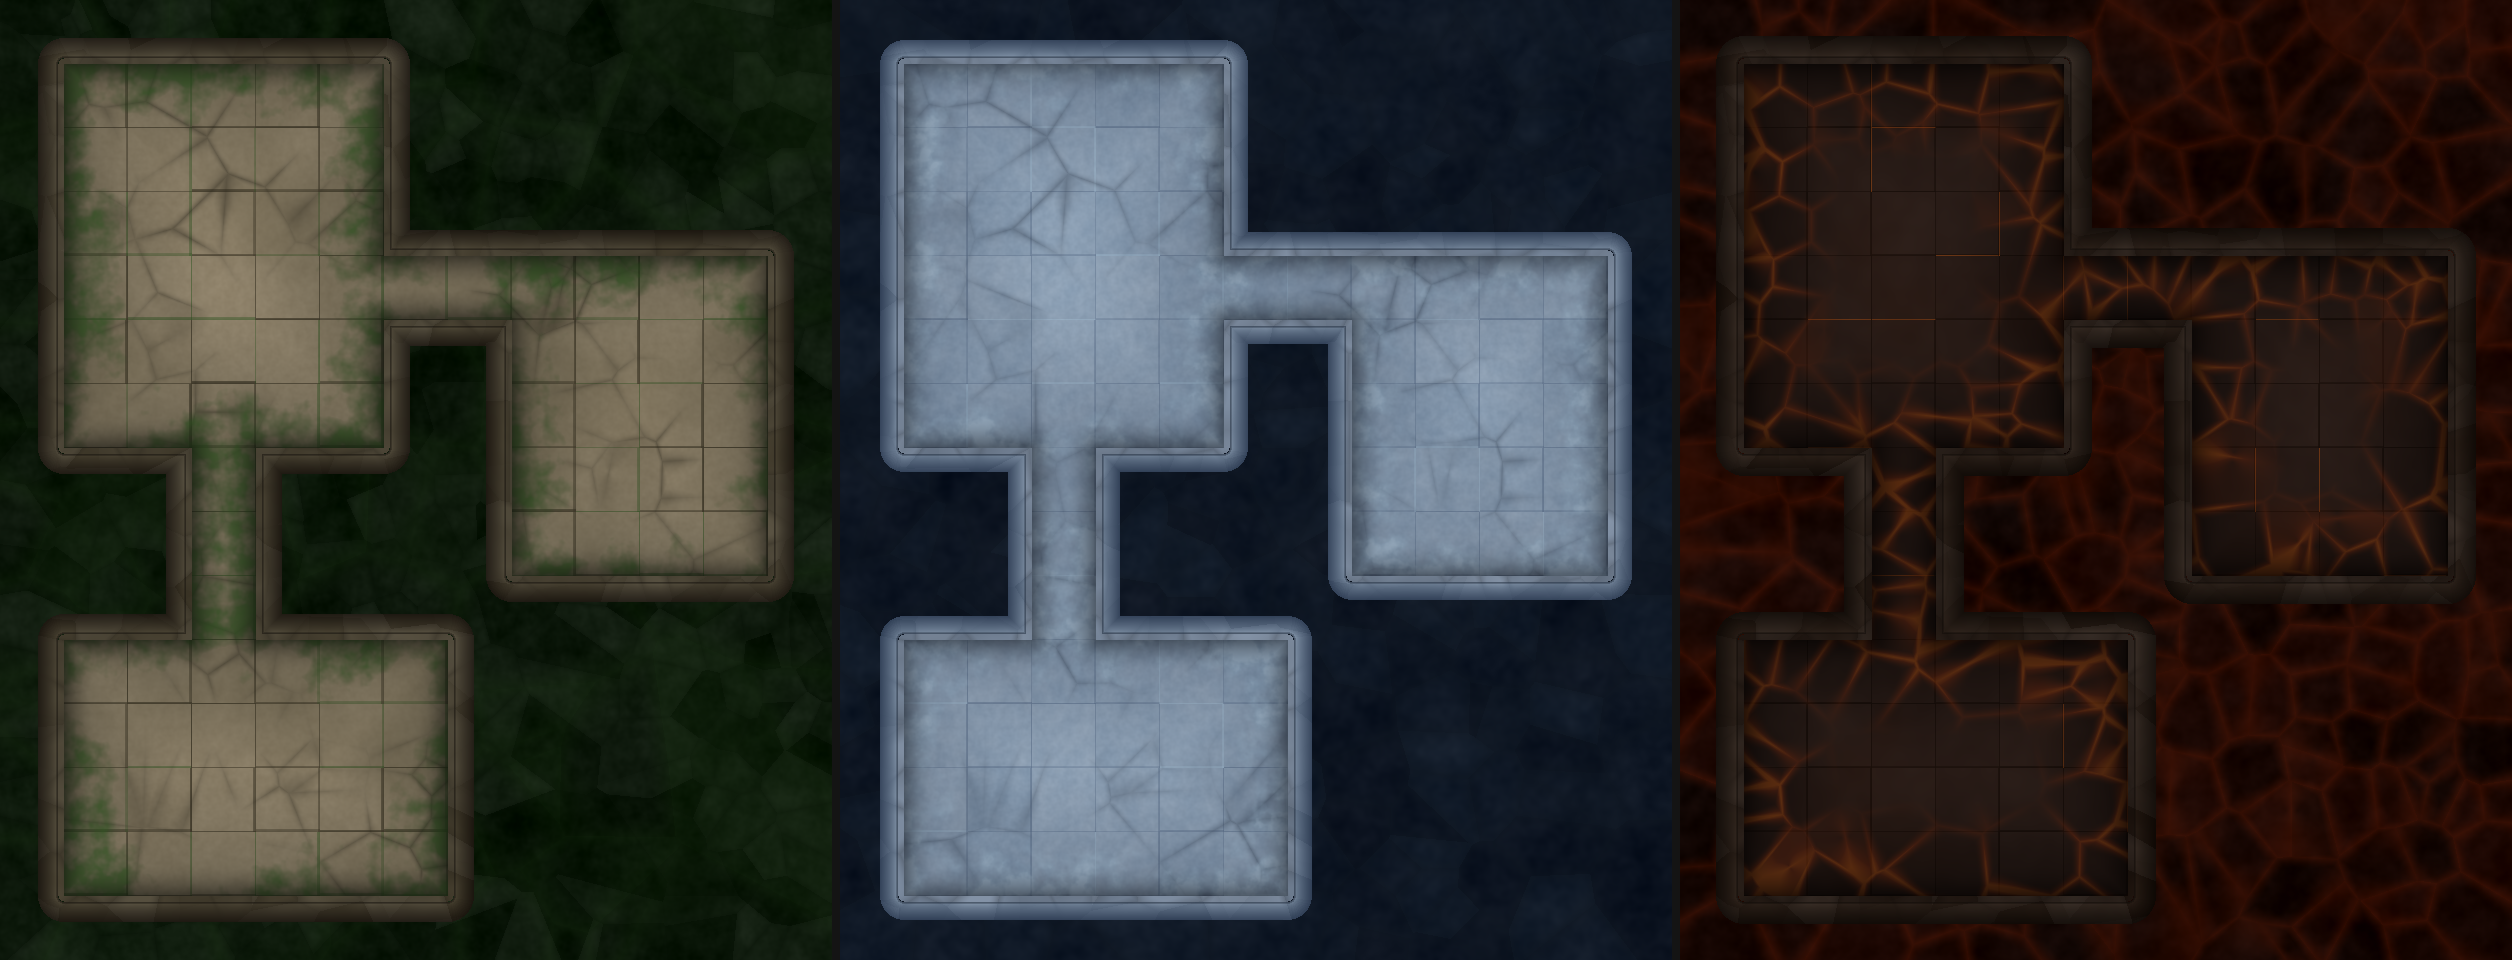
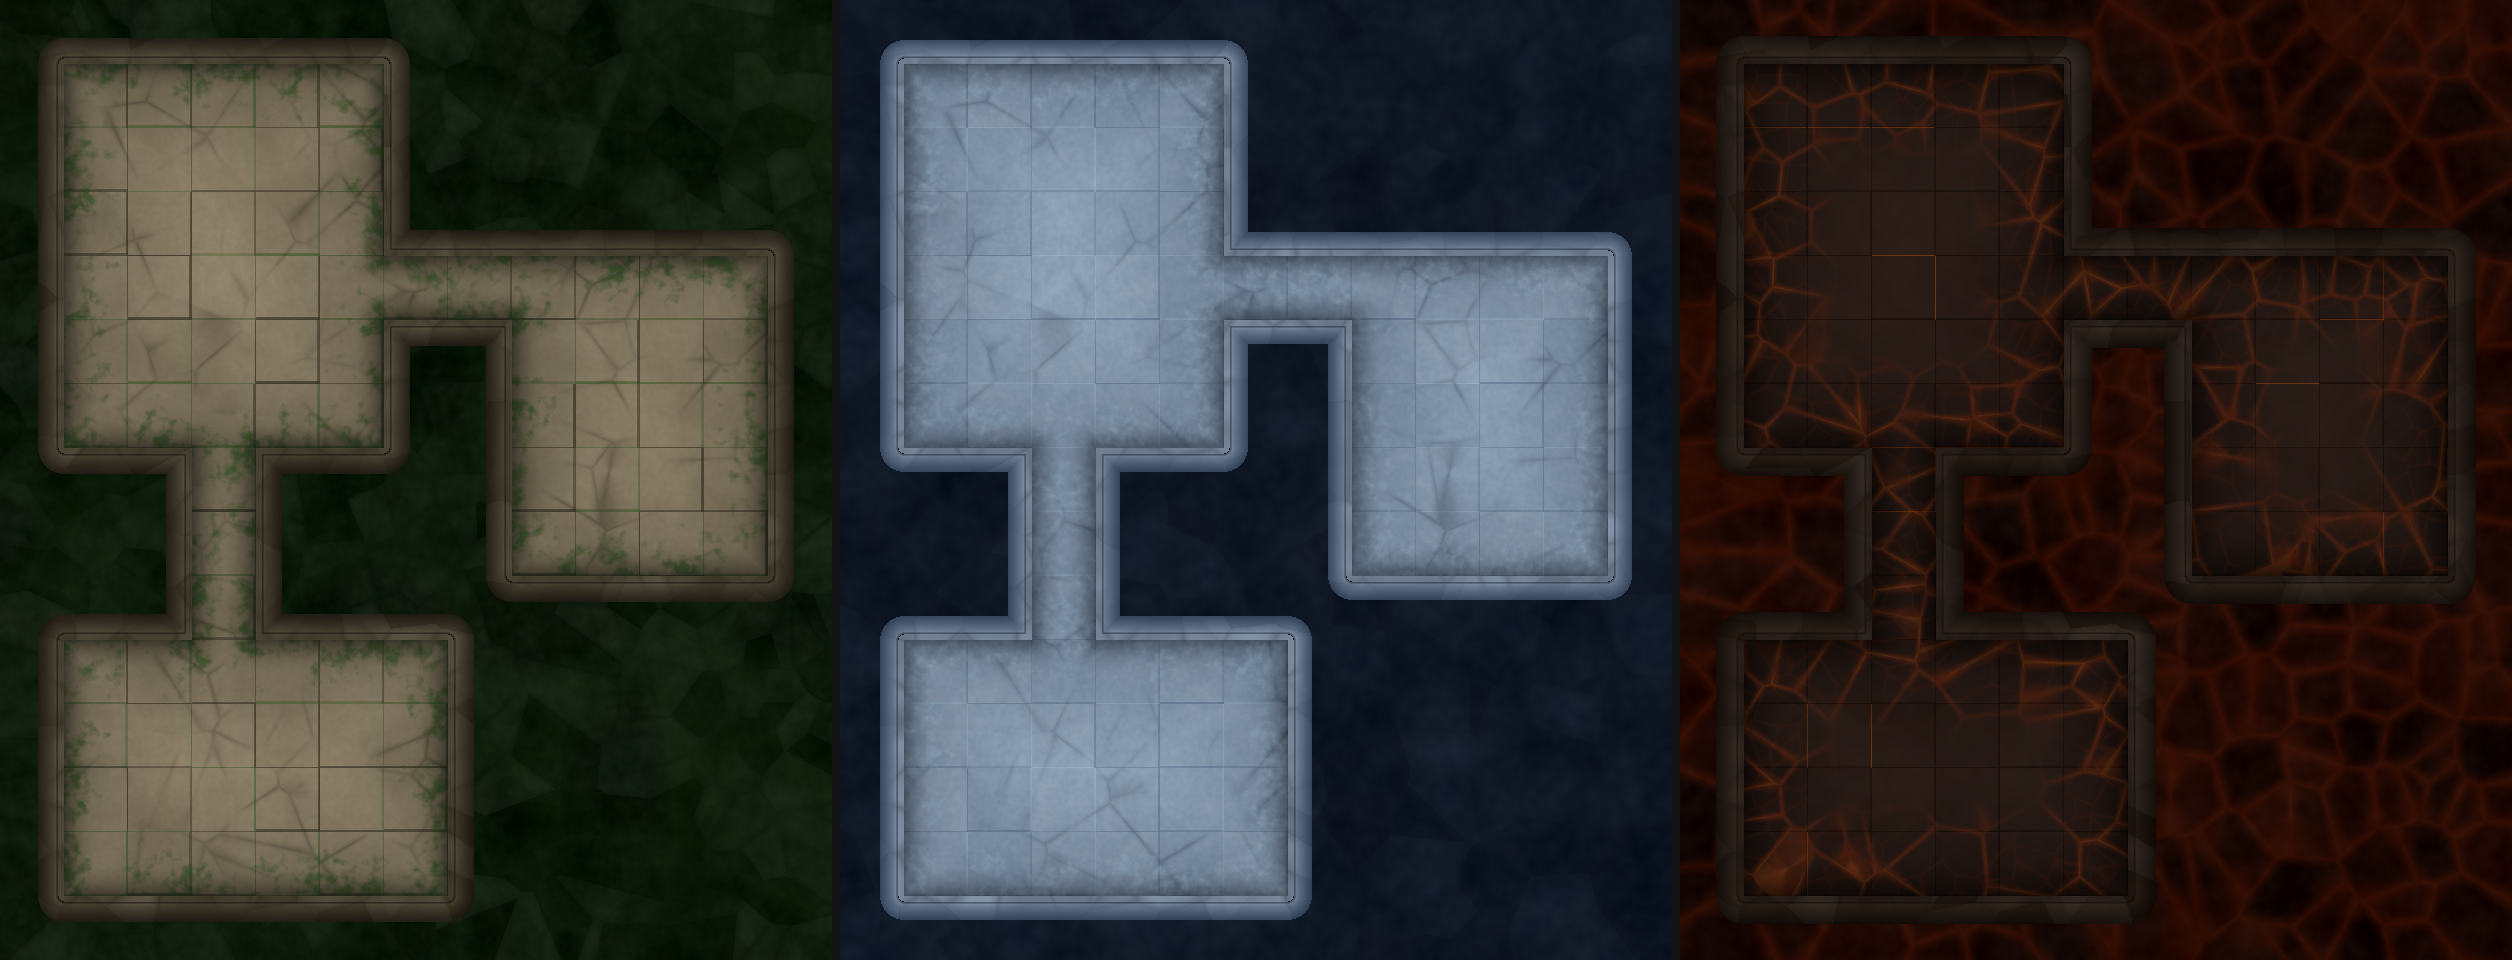
Enforce finer detail scales on successive layers
Each layer now uses progressively finer noise/Voronoi scales:
- Vine tendrils: noise scale 4.0/8.0 (was 1.5/4.0), sharper threshold
- Frost creep: scale 6.0/12.0 (was 2.5/6.0), crisper crystalline edges
- Lava seep: Voronoi density 4.0+10.0 (was 1.8), two crack scales
  producing fine glowing fissures instead of huge cells
- Cracks: density 3.0 with *7.0 edge sharpening (was 1.5/*5.0)
- Stains: added fine detail modulation noise

Follows rule: each successive layer has reduced feature scale.

diff --git a/tools/texgen/preview.py b/tools/texgen/preview.py
@@ -393,78 +393,95 @@ def step_grout_cracked(ctx, width_range=(1, 2), glow_chance=0.15):
 # ===================================================================
 
 def step_vine_tendrils(ctx, reach=1.8, density=0.45):
-    """Organic vine tendrils creeping from exterior into rooms."""
-    n1 = noise(PX_H, PX_W, scale=1.5, octaves=4, seed=800)
-    n2 = noise(PX_H, PX_W, scale=4.0, octaves=3, seed=801)
-    n3 = noise(PX_H, PX_W, scale=0.5, octaves=2, seed=802)
+    """Organic vine tendrils creeping from exterior into rooms.
+    Uses fine-scale noise for thin tendril shapes, not fat blobs."""
+    # Fine detail for thin tendril shapes
+    n_shape = noise(PX_H, PX_W, scale=4.0, octaves=4, seed=800)
+    n_detail = noise(PX_H, PX_W, scale=8.0, octaves=3, seed=801)
+    # Medium for tendril routing/clustering
+    n_route = noise(PX_H, PX_W, scale=1.5, octaves=2, seed=802)
 
     prox = np.clip(1.0 - ctx.inner_dist / (TILE * reach), 0, 1)
-    tendril = prox * (0.3 + 0.7 * n1) * (0.5 + 0.5 * n2) * (0.2 + 0.8 * np.clip(n3 * 1.5, 0, 1))
-    vine_mask = np.clip((tendril - 0.25) * 4.0, 0, 1)
+    # Thin tendrils: high-freq noise shaped by proximity and routing
+    tendril = prox * (0.2 + 0.8 * n_shape) * (0.5 + 0.5 * n_detail)
+    tendril *= (0.3 + 0.7 * np.clip(n_route * 1.5, 0, 1))
+    # Sharper threshold for thinner features
+    vine_mask = np.clip((tendril - 0.3) * 5.0, 0, 1)
     vine_mask[ctx.void_mask] = 0
 
     colors = [np.array(mc, dtype=np.float64) for mc in ctx.theme['moss_colors']]
     if not colors: return
-    ctx.blend(colors[0], vine_mask * 0.6, ctx.floor_mask)
+    ctx.blend(colors[0], vine_mask * 0.55, ctx.floor_mask)
     if len(colors) > 1:
-        highlight = np.clip((tendril - 0.4) * 5.0, 0, 1) * vine_mask
-        ctx.blend(colors[1], highlight * 0.4, ctx.floor_mask)
+        # Fine highlights only on densest vine areas
+        highlight = np.clip((tendril - 0.45) * 8.0, 0, 1) * vine_mask
+        ctx.blend(colors[1], highlight * 0.35, ctx.floor_mask)
     if len(colors) > 2:
-        edge_shadow = vine_mask * np.clip(1.0 - tendril * 2, 0, 1)
-        ctx.blend(colors[2] * 0.5, edge_shadow * 0.3, ctx.floor_mask)
+        edge_shadow = vine_mask * np.clip(1.0 - tendril * 2.5, 0, 1)
+        ctx.blend(colors[2] * 0.5, edge_shadow * 0.25, ctx.floor_mask)
 
 
 def step_frost_creep(ctx, reach=1.2, density=0.3):
-    """Crystalline frost spreading from cold walls. Feathery, branching."""
-    # Higher frequency noise for crystalline/feathery look
-    n1 = noise(PX_H, PX_W, scale=2.5, octaves=4, seed=810)
-    n2 = noise(PX_H, PX_W, scale=6.0, octaves=3, seed=811)
-    n3 = noise(PX_H, PX_W, scale=1.0, octaves=2, seed=812)
+    """Crystalline frost spreading from cold walls. Fine feathery detail."""
+    # Very high frequency for crystalline/feathery branching
+    n_crystal = noise(PX_H, PX_W, scale=6.0, octaves=4, seed=810)
+    n_fine = noise(PX_H, PX_W, scale=12.0, octaves=3, seed=811)
+    # Medium for which areas get frost
+    n_zone = noise(PX_H, PX_W, scale=1.5, octaves=2, seed=812)
 
     prox = np.clip(1.0 - ctx.inner_dist / (TILE * reach), 0, 1)
-    # Crystalline: sharper threshold, more on/off
-    crystal = prox * n1 * (0.6 + 0.4 * n2)
-    crystal *= (0.3 + 0.7 * np.clip(n3 * 1.5, 0, 1))
-    frost = np.clip((crystal - 0.15) * 6.0, 0, 1)  # sharper edges
+    crystal = prox * n_crystal * (0.5 + 0.5 * n_fine)
+    crystal *= (0.3 + 0.7 * np.clip(n_zone * 1.5, 0, 1))
+    # Very sharp threshold for crisp frost edges
+    frost = np.clip((crystal - 0.18) * 8.0, 0, 1)
     frost[ctx.void_mask] = 0
 
     colors = [np.array(mc, dtype=np.float64) for mc in ctx.theme['moss_colors']]
     if not colors: return
-    # Frost is lighter, not darker — additive feel
-    ctx.blend(colors[0], frost * 0.35, ctx.floor_mask)
+    ctx.blend(colors[0], frost * 0.3, ctx.floor_mask)
     if len(colors) > 1:
-        # Bright rime highlights on thickest frost
-        rime = np.clip((crystal - 0.3) * 8.0, 0, 1) * frost
-        ctx.blend(colors[1], rime * 0.3, ctx.floor_mask)
+        rime = np.clip((crystal - 0.35) * 10.0, 0, 1) * frost
+        ctx.blend(colors[1], rime * 0.25, ctx.floor_mask)
 
 
-def step_lava_seep(ctx, reach=1.5, intensity=0.6, crack_density=1.8):
-    """Lava seeping through cracks near walls. Glowing cores, dark edges."""
-    # Use Voronoi cracks for lava channels
+def step_lava_seep(ctx, reach=1.5, intensity=0.6, crack_density=4.0):
+    """Lava seeping through fine cracks near walls. Thin glowing lines."""
+    # High-density Voronoi for fine crack network (not huge cells)
     _, crack_edges = voronoi(PX_H, PX_W, density=crack_density, seed=820)
-    cracks = np.clip(1.0 - crack_edges * 4.0, 0, 1) ** 2
+    cracks = np.clip(1.0 - crack_edges * 6.0, 0, 1) ** 2.5  # thinner lines
+
+    # Secondary even finer cracks
+    _, crack_edges2 = voronoi(PX_H, PX_W, density=crack_density * 2.5, seed=822)
+    cracks2 = np.clip(1.0 - crack_edges2 * 8.0, 0, 1) ** 3
 
     prox = np.clip(1.0 - ctx.inner_dist / (TILE * reach), 0, 1)
-    n_variation = noise(PX_H, PX_W, scale=0.6, octaves=3, seed=821)
+    n_variation = noise(PX_H, PX_W, scale=1.5, octaves=3, seed=821)
 
-    # Lava flows in cracks near walls
+    # Primary lava cracks near walls
     lava = cracks * prox * (0.4 + 0.6 * n_variation)
-    lava_mask = np.clip(lava * 3.0, 0, 1)
+    lava_mask = np.clip(lava * 4.0, 0, 1)
+    # Secondary fine cracks (subtler)
+    lava2 = cracks2 * prox * 0.5
+    lava_mask2 = np.clip(lava2 * 3.0, 0, 1)
     lava_mask[ctx.void_mask] = 0
+    lava_mask2[ctx.void_mask] = 0
 
     colors = [np.array(mc, dtype=np.float64) for mc in ctx.theme['moss_colors']]
     if not colors: return
 
-    # Dark scorch around lava
-    scorch = np.clip(prox * 1.5, 0, 1) * 0.2
+    # Subtle scorch around lava areas
+    scorch = np.clip(prox * 1.2, 0, 1) * 0.15
     ctx.darken(scorch, ctx.floor_mask)
 
-    # Hot lava glow (bright core)
-    ctx.blend(colors[0], lava_mask * intensity * 0.5, ctx.floor_mask)
-    # Bright highlights in the crack centers
+    # Fine secondary cracks (dim glow)
+    if len(colors) > 2:
+        ctx.blend(colors[2], lava_mask2 * intensity * 0.3, ctx.floor_mask)
+    # Primary lava glow
+    ctx.blend(colors[0], lava_mask * intensity * 0.45, ctx.floor_mask)
+    # Bright core highlights (only in strongest cracks)
     if len(colors) > 1:
-        bright = np.clip((lava - 0.3) * 5.0, 0, 1)
-        ctx.blend(colors[1], bright * intensity * 0.4, ctx.floor_mask)
+        bright = np.clip((lava - 0.35) * 6.0, 0, 1)
+        ctx.blend(colors[1], bright * intensity * 0.35, ctx.floor_mask)
 
 
 # ===================================================================
@@ -472,29 +489,32 @@ def step_lava_seep(ctx, reach=1.5, intensity=0.6, crack_density=1.8):
 # ===================================================================
 
 def step_stains_organic(ctx, coverage=0.3):
-    """Warm dirt/water stains."""
+    """Warm dirt/water stains — medium scale, below tiles."""
     stain = np.array(ctx.theme['stain'], dtype=np.float64)
-    n = noise(PX_H, PX_W, scale=0.4, octaves=4, seed=300)
-    alpha = np.clip(n * 1.8 - 0.6, 0, 1) ** 1.2 * coverage
+    n = noise(PX_H, PX_W, scale=0.8, octaves=3, seed=300)
+    detail = noise(PX_H, PX_W, scale=3.0, octaves=2, seed=301)
+    alpha = np.clip(n * 1.8 - 0.6, 0, 1) ** 1.2 * (0.7 + 0.3 * detail) * coverage
     ctx.blend(stain, alpha, ctx.floor_mask)
 
 
 def step_stains_soot(ctx, coverage=0.25):
-    """Dark scorch/soot stains — volcano theme."""
+    """Dark scorch/soot stains — medium-fine scale."""
     stain = np.array(ctx.theme['stain'], dtype=np.float64)
-    n = noise(PX_H, PX_W, scale=0.5, octaves=3, seed=305)
-    alpha = np.clip(n * 2.0 - 0.7, 0, 1) ** 1.5 * coverage
+    n = noise(PX_H, PX_W, scale=1.2, octaves=3, seed=305)
+    detail = noise(PX_H, PX_W, scale=4.0, octaves=2, seed=306)
+    alpha = np.clip(n * 2.0 - 0.7, 0, 1) ** 1.5 * (0.6 + 0.4 * detail) * coverage
     ctx.blend(stain, alpha, ctx.floor_mask)
 
 
-def step_cracks_fine(ctx, density=1.5):
-    """Fine crack network."""
+def step_cracks_fine(ctx, density=3.0):
+    """Fine crack network — high density Voronoi for thin hairline cracks."""
     _, edges = voronoi(PX_H, PX_W, density=density, seed=400)
-    cracks = np.clip(1.0 - edges * 5.0, 0, 1) ** 3
-    sparse = noise(PX_H, PX_W, scale=0.5, octaves=2, seed=401)
+    cracks = np.clip(1.0 - edges * 7.0, 0, 1) ** 3  # thinner lines
+    # Sparsify with medium noise (some areas cracked, some clean)
+    sparse = noise(PX_H, PX_W, scale=0.8, octaves=2, seed=401)
     cracks *= np.clip(sparse * 2.5 - 1.0, 0, 1)
     mortar = np.array(ctx.theme['mortar'], dtype=np.float64) * 0.6
-    ctx.blend(mortar, cracks * 0.4, ctx.floor_mask)
+    ctx.blend(mortar, cracks * 0.35, ctx.floor_mask)
 
 
 # ===================================================================
